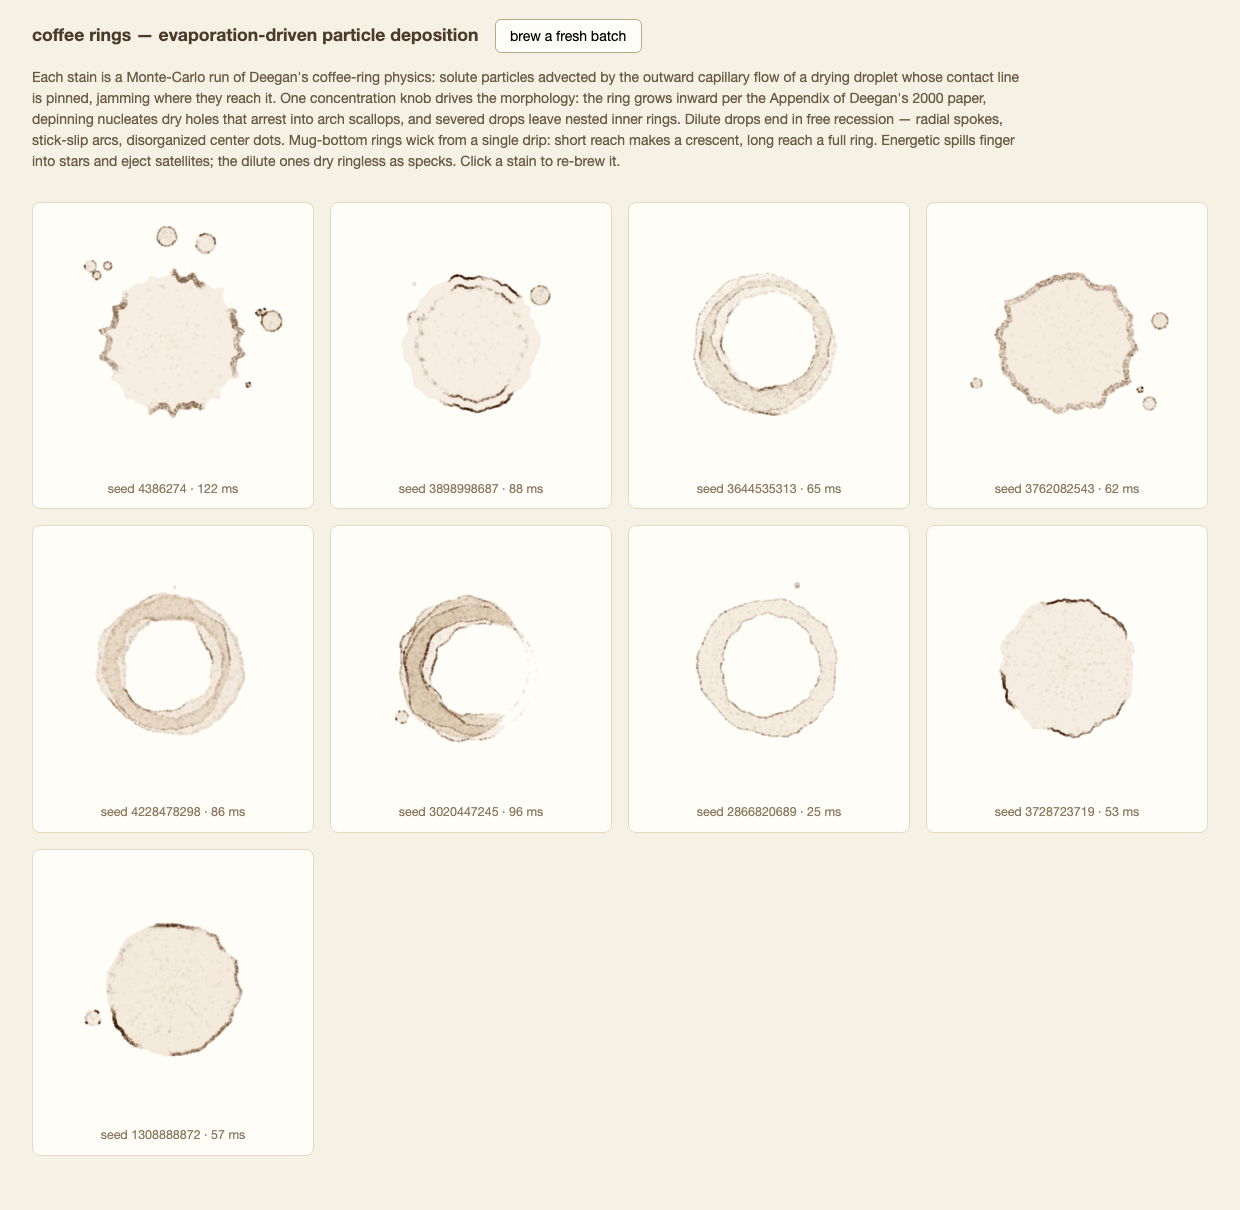
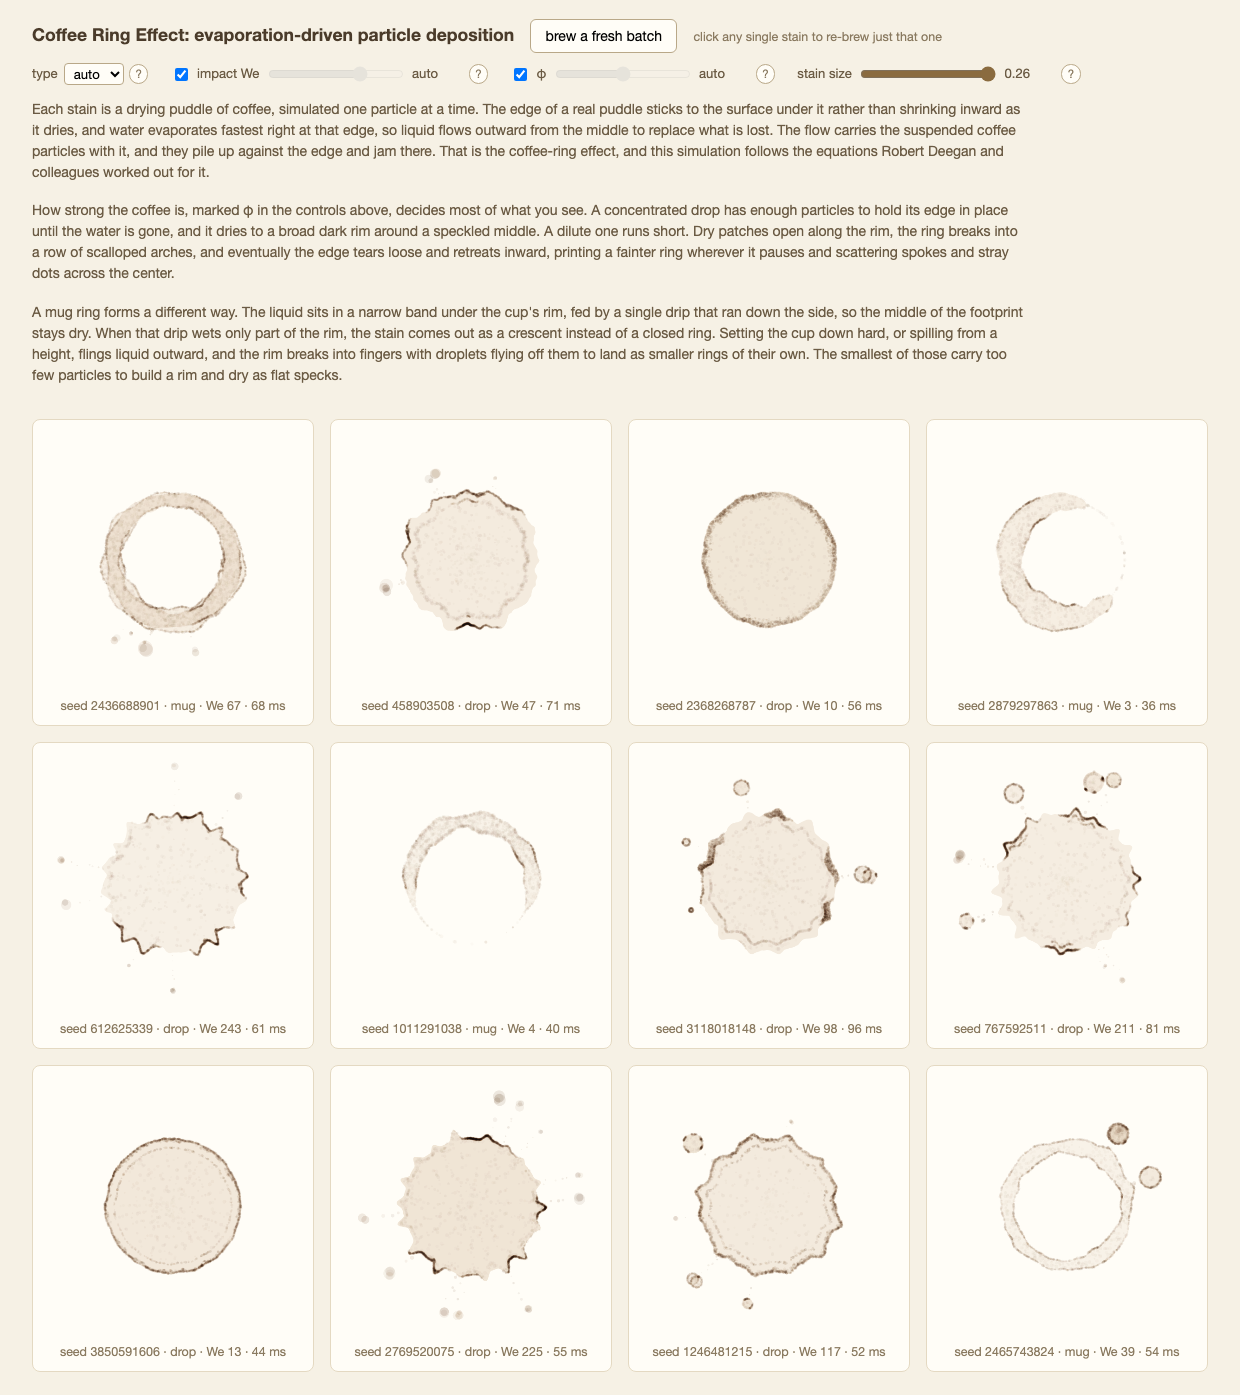
Reshoot the README screenshot against the current demo
The old one was three revisions stale: nine stains in a ragged 4+4+1,
the retired jargon-soup intro, and the pre-rename title. The new shot is
a tight crop of the live page, and the batch it happened to draw earns
its place: a nested mug ring, a crescent, a C-shaped partial, and four
splashes throwing satellite specks. Alt text now says what the stains
look like rather than how many there are.

diff --git a/README.md b/README.md
@@ -2,7 +2,7 @@
 
 Procedural coffee stains from a particle simulation of the coffee-ring physics (Deegan et al.). A stain renders once to a canvas in 40 to 120 ms and is reused as a static image after that, so generation cost never recurs. Every stain is a pure function of its seed. No dependencies.
 
-![Nine procedurally generated coffee stains in the demo grid](docs/demo-grid.png)
+![Twelve procedurally generated coffee stains in the demo grid: mug rings, crescents, splashed drops with satellite specks, and plain drops](docs/demo-grid.png)
 
 ## The physics
 
